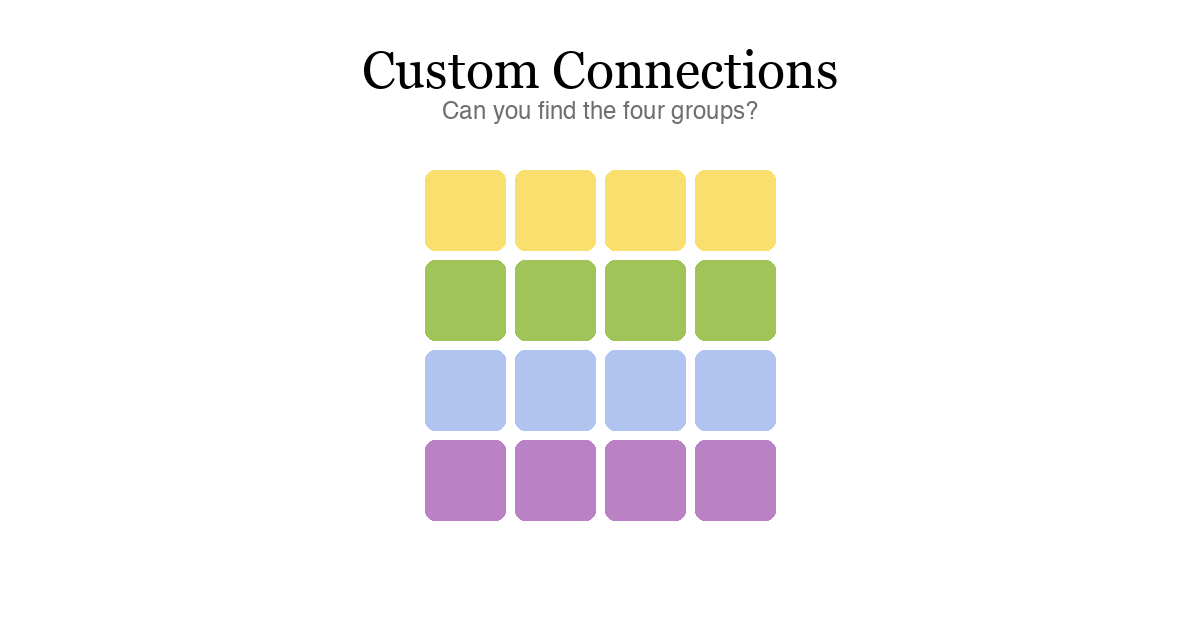
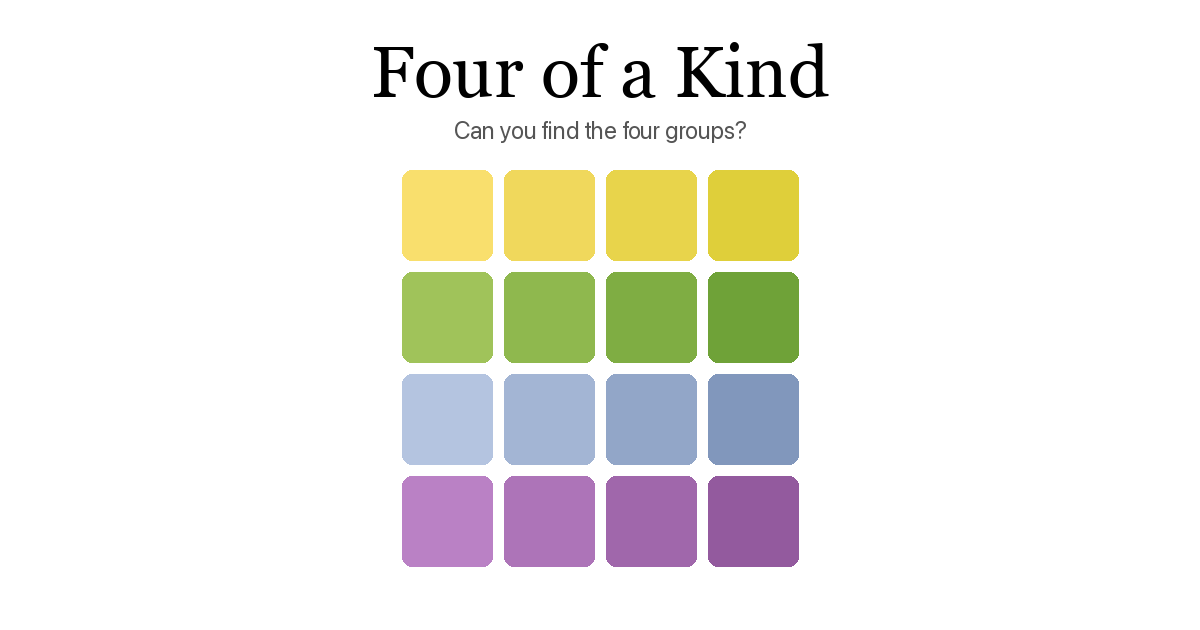
Use direct /play.html?p= links instead of _redirects
Cloudflare Workers doesn't process _redirects for routing.

Changed region(s): [[0.3083, 0.2714, 0.6783, 0.9048], [0.2775, 0.0603, 0.7092, 0.2413]]

diff --git a/index.html b/index.html
@@ -353,7 +353,7 @@
                 const username = puzzle._username;
                 const card = document.createElement('a');
                 card.className = 'puzzle-card';
-                card.href = '/p/' + puzzle.id;
+                card.href = '/play.html?p=' + puzzle.id;
                 const solvedBadge = userPlays.has(puzzle.id) ? '<span class="puzzle-solved">Solved</span>' : '';
                 card.innerHTML = `
                     <div class="puzzle-title">${getPuzzleTitle(categories, puzzle.id, puzzle.name)}${username ? `<span class="puzzle-author"> by ${username}</span>` : ''}${solvedBadge}</div>
@@ -411,7 +411,7 @@
             let unsolved = data.filter(p => !userPlays.has(p.id));
             if (unsolved.length === 0) unsolved = data; // fallback to all if everything solved
             const random = unsolved[Math.floor(Math.random() * unsolved.length)];
-            window.location.href = '/p/' + random.id;
+            window.location.href = '/play.html?p=' + random.id;
         }
 
         window.addEventListener('load', async () => {

diff --git a/create.html b/create.html
@@ -282,7 +282,7 @@
                     showCreatorError('Failed to save puzzle. Please try again.');
                     return;
                 }
-                url = location.origin + '/p/' + id;
+                url = location.origin + '/play.html?p=' + id;
             } else {
                 const encoded = await compress(serialized);
                 url = location.origin + '/play.html#' + encoded;
